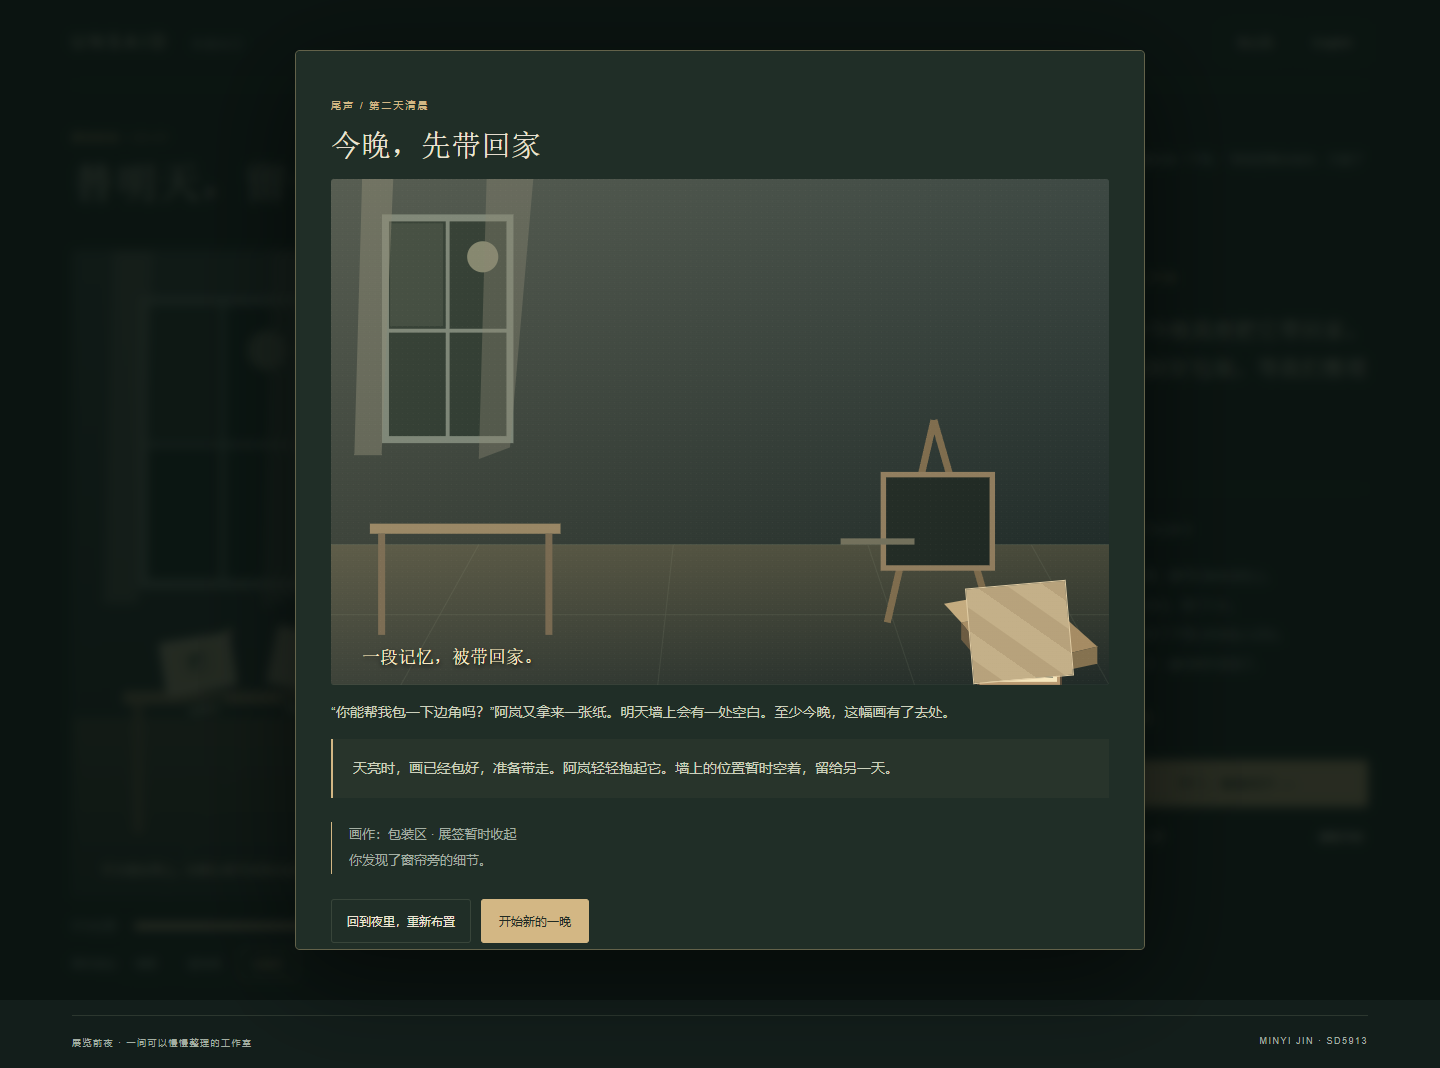
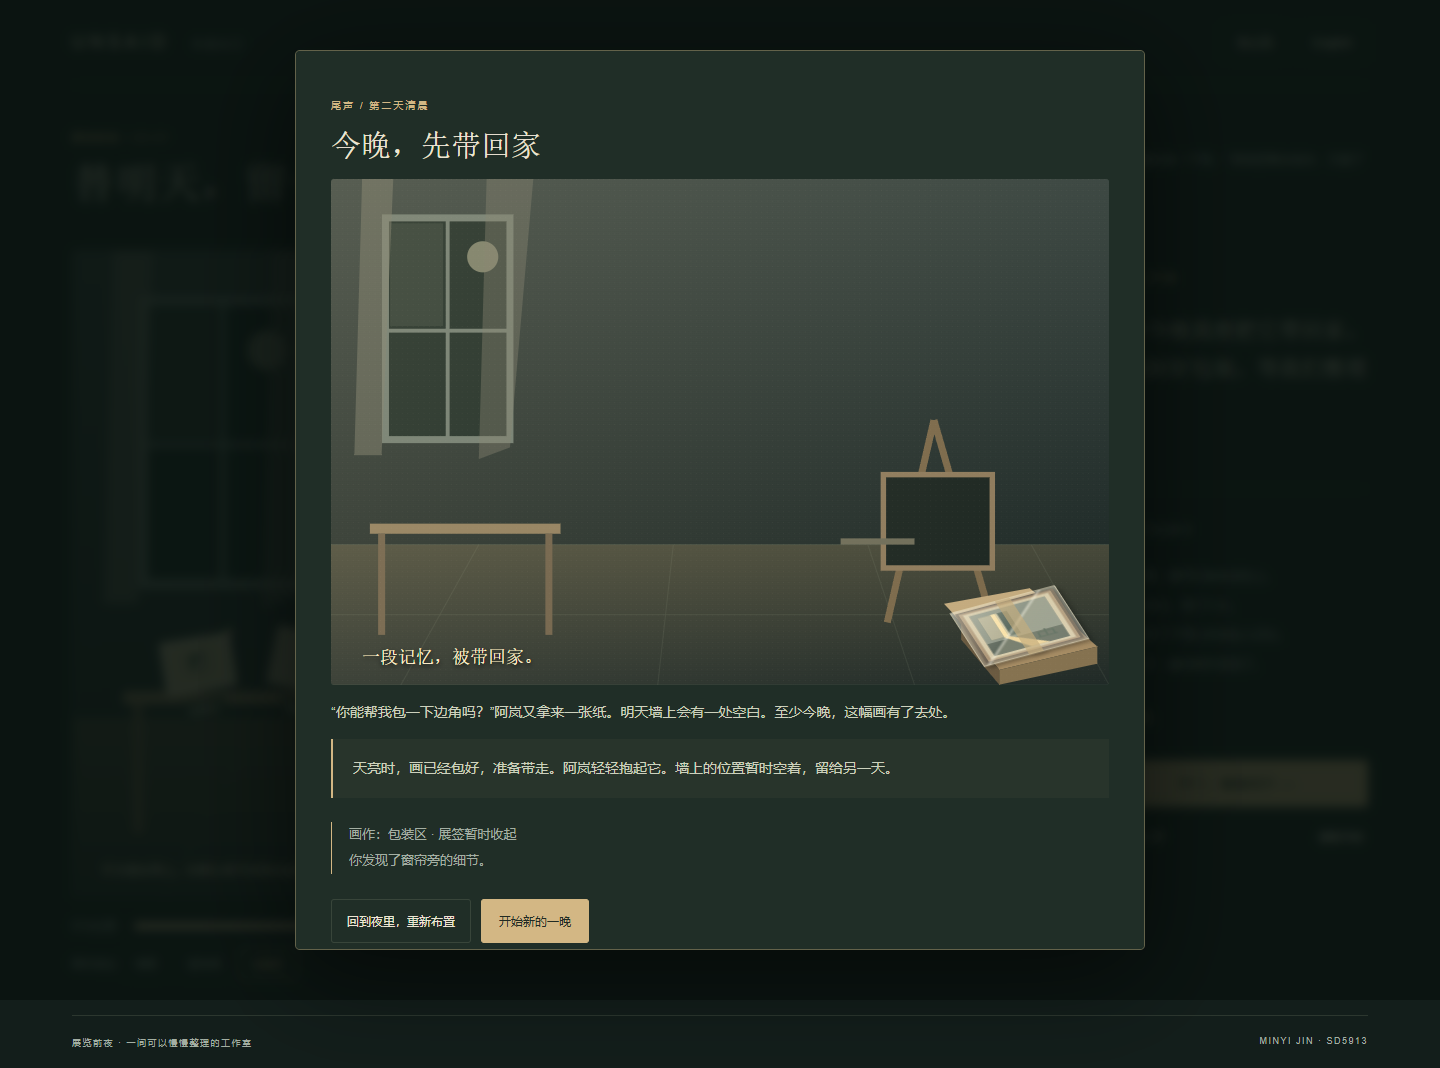
allow opening immediately and lay protected painting inside its box

Changed region(s): [[0.6562, 0.5253, 0.75, 0.6489]]

diff --git a/app.js b/app.js
@@ -19,7 +19,7 @@ function renderBase(){
  $('status').textContent=status;$('finish').textContent=T('Leave the room ready','就这样，准备开门');$('undo').textContent=T('↶ Undo','↶ 撤回一步');$('undo').disabled=!history.length;$('restart').textContent=T('Start over','重新开始');$('light-label').textContent=T('Light position','灯光位置');$('placement-label').textContent=T('Place painting','画作放在');$('light').value=state.light;$('light-value').textContent=Math.round(state.light)+'%';
  document.querySelectorAll('[data-place]').forEach(b=>{const p=b.dataset.place;b.setAttribute('aria-pressed',String(state.place===p));b.classList.toggle('active',state.place===p);if(b.classList.contains('zone'))b.querySelector('span').textContent=names[p][lang];else b.textContent=names[p][lang];});
  document.querySelectorAll('[data-object]').forEach(b=>{b.querySelector('.tag').textContent=names[b.dataset.object][lang];b.setAttribute('aria-label',T('Inspect ','查看')+names[b.dataset.object][lang]);b.classList.toggle('seen',state.seen.includes(b.dataset.object));});document.querySelector('.label').classList.toggle('removed',!state.label);
- const positions={wall:[38,18,20],rack:[72,58,12],pack:[83,81,11]};const [x,y,w]=positions[state.place];if(!drag||drag.kind!=='painting')Object.assign($('painting').style,{left:x+'%',top:y+'%',width:w+'%'});
+ const positions={wall:[38,18,20],rack:[72,58,12],pack:[82,77,13]};const [x,y,w]=positions[state.place];$('painting').dataset.location=state.place;if(!drag||drag.kind!=='painting')Object.assign($('painting').style,{left:x+'%',top:y+'%',width:w+'%'});
  $('painting').setAttribute('aria-label',T('Painting: drag to an area, or click to cycle positions.','画作：拖动至标记区域，或点击切换位置。'));$('lamp').style.left=state.light+'%';$('beam').style.left=state.light+'%';$('lamp').querySelector('span').textContent=T('Move light','移动灯光');$('lamp').setAttribute('aria-label',T('Move light; also available using the slider below.','移动灯光，也可使用下方滑块。'));$('hidden-light').style.opacity=aligned()?'1':'0';
  $('painting').classList.toggle('illuminated',aligned());
  $('beam').style.height=({wall:85,rack:120,pack:150}[state.place])+'%';
@@ -60,7 +60,7 @@ document.querySelectorAll('[data-place]').forEach(b=>b.onclick=()=>setPlace(b.da
 $('language').onclick=()=>{lang=1-lang;status='';render();};$('help').onclick=()=>$('help-dialog').showModal();$('close-help').onclick=$('help-ok').onclick=()=>$('help-dialog').close();$('undo').onclick=()=>{if(!history.length)return;const old=history.pop();state=old.state;voice=old.voice;status=T('Previous arrangement restored.','已恢复上一步的布置。');render();};
 $('restart').onclick=()=>$('reset-dialog').showModal();$('cancel-reset').onclick=()=>$('reset-dialog').close();$('confirm-reset').onclick=()=>{state=initial();history=[];voice='welcome';status=T('The evening begins again.','又回到了展览前夜。');$('reset-dialog').close();render();};
 let sliderStart=null;$('light').addEventListener('input',()=>{if(!sliderStart)sliderStart=snapshot();state.light=Number($('light').value);detectLight();render();});$('light').addEventListener('change',()=>{if(sliderStart){history.push(sliderStart);sliderStart=null;}render();});
-$('finish').onclick=()=>{if(state.seen.length<2){status=T('Alex glances at the table. “Could you look at a couple of those things with me first?”','阿岚看了看桌面。“先陪我看看其中两样东西，好吗？”');render();return;}renderEnding();$('ending').showModal();};$('continue').onclick=()=>$('ending').close();
+$('finish').onclick=()=>{if($('ending').open)return;renderEnding();$('ending').showModal();};$('continue').onclick=()=>$('ending').close();
 function beginDrag(e,kind){if(e.button!==0)return;drag={kind,id:e.pointerId,startX:e.clientX,startY:e.clientY,moved:false,before:snapshot(),rect:$('studio').getBoundingClientRect()};e.currentTarget.setPointerCapture(e.pointerId);if(kind==='painting')$('studio').classList.add('dragging-room');}
 function moveDrag(e){if(!drag||e.pointerId!==drag.id)return;if(Math.hypot(e.clientX-drag.startX,e.clientY-drag.startY)>5)drag.moved=true;if(!drag.moved)return;const x=(e.clientX-drag.rect.left)/drag.rect.width*100,y=(e.clientY-drag.rect.top)/drag.rect.height*100;if(drag.kind==='lamp'){state.light=Math.max(12,Math.min(88,x));detectLight();render();}else{$('painting').classList.add('dragging');Object.assign($('painting').style,{left:Math.max(0,Math.min(80,x-10))+'%',top:Math.max(0,Math.min(70,y-12))+'%',width:'20%'});}}
 function endDrag(e,cancel=false){if(!drag||e.pointerId!==drag.id)return;const d=drag;drag=null;$('studio').classList.remove('dragging-room');$('painting').classList.remove('dragging');if(cancel){state=d.before.state;voice=d.before.voice;status=T('Movement cancelled; the previous position was restored.','移动已取消，恢复原来的位置。');render();return;}if(d.kind==='lamp'){if(d.moved)history.push(d.before);render();return;}if(!d.moved){const places=['wall','rack','pack'];setPlace(places[(places.indexOf(state.place)+1)%3]);return;}const x=(e.clientX-d.rect.left)/d.rect.width*100,y=(e.clientY-d.rect.top)/d.rect.height*100;const target=x>=32&&x<=64&&y>=12&&y<=60?'wall':x>=69&&x<=86&&y>=53&&y<=80?'rack':x>=79&&x<=100&&y>=79&&y<=100?'pack':null;if(target){history.push(d.before);state.place=target;voice=target;status=T('Painting placed.','画已放好。');detectLight();}else status=T('Place it inside a marked area. The painting returned safely.','请放到标记区域内，画已回到原处。');render();}
@@ -69,7 +69,7 @@ $('painting').addEventListener('click',e=>{if(e.detail===0){const places=['wall'
 // Additional scene feedback and the final visitor view use the same live arrangement.
 function render(){
  renderBase();
- $('help-copy').textContent=T('Move the lamp over the painting on the wall, rack or packing table. A warm highlight appears when it catches the light.\n\nPick up the photograph and studies; turn them over to find their notes. Open the exhibition label to choose whether visitors will read the private statement.\n\nDrag the painting into a marked area, or use the position buttons. Use Tab and Enter for buttons, arrow keys for the light slider.\n\nAfter inspecting two objects, open the doors to see the exhibition you arranged. The final scene can be revisited or restarted.','把灯移到画的上方：墙面、暂存架和包装区都能照亮，光落到画上时会出现暖色细节。\n\n拿起照片和草稿，翻面查看批注。打开展签，决定观众是否会读到私人自述。\n\n拖动画作到标记区域，或使用位置按钮。按钮支持 Tab / Enter，灯光滑块支持方向键。\n\n查看两件物品后，开门看看你布置的展览。结局后可以返回修改，也可以从头再玩。');
+ $('help-copy').textContent=T('Move the lamp over the painting on the wall, rack or packing table. A warm highlight appears when it catches the light.\n\nPick up the photograph and studies; turn them over to find their notes. Open the exhibition label to choose whether visitors will read the private statement.\n\nDrag the painting into a marked area, or use the position buttons. In the packing area it lies under translucent protective paper; move it elsewhere to unpack it. Use Tab and Enter for buttons, arrow keys for the light slider.\n\nOpen the doors whenever you are ready to see your exhibition. You can return to rearrange it or begin again.','把灯移到画的上方：墙面、暂存架和包装区都能照亮，光落到画上时会出现暖色细节。\n\n拿起照片和草稿，翻面查看批注。打开展签，决定观众是否会读到私人自述。\n\n拖动画作到标记区域，或使用位置按钮。画放进包装区时会斜放在保护纸下，移回其他位置即可拆开。按钮支持 Tab / Enter，灯光滑块支持方向键。\n\n准备好就可以开门看看明天，没有查看数量要求。结局后可以回来重新布置，也可以从头再玩。');
  $('finish').textContent=T('Open the doors →','开门，看看明天 →');
  document.querySelector('.mini-label').textContent=T('ROOM\n2026','房间\n2026');
  document.querySelector('.label').setAttribute('title',state.label?T('Visitors will read Alex’s personal statement.','观众会读到阿岚的私人自述。'):T('The statement is set aside; visitors will see the artwork alone.','私人自述已收起，观众只看作品。'));
@@ -89,7 +89,7 @@ renderEnding=function(){
  const room=document.querySelector('.room').cloneNode(true);
  room.querySelectorAll('[id]').forEach(el=>{const old=el.id;el.id='final-'+old;room.querySelectorAll('[fill]').forEach(shape=>{if(shape.getAttribute('fill')===`url(#${old})`)shape.setAttribute('fill',`url(#final-${old})`);});});scene.append(room);
  const painting=$('painting').cloneNode(true);painting.removeAttribute('id');painting.className='final-painting';painting.disabled=true;painting.querySelectorAll('[id]').forEach(e=>e.removeAttribute('id'));scene.append(painting);
- if(state.place==='pack'){const wrap=document.createElement('div');wrap.className='final-wrap';scene.append(wrap);}
+ if(state.place==='pack'){const wrap=document.createElement('div');wrap.className='final-wrap';painting.append(wrap);}
  if(state.place==='wall'&&state.label){const label=document.createElement('div');label.className='final-label';label.textContent=T('ROOM / 2026\nA personal history','房间 / 2026\n一段私人记忆');scene.append(label);}
  const dawn=document.createElement('div');dawn.className='dawn';scene.append(dawn);
  const caption=document.createElement('p');caption.className='final-caption';caption.textContent={shared:T('The story is shared.','故事被讲给了别人。'),quiet:T('The work speaks first.','先让作品开口。'),rack:T('There is still time.','还有一些时间。'),pack:T('A memory goes home.','一段记忆，被带回家。')}[endingKey];scene.append(caption);

diff --git a/style.css b/style.css
@@ -4,3 +4,9 @@
 /* Light remains useful at every destination; epilogues show the arranged scene. */
 #painting.illuminated{filter:drop-shadow(0 0 16px #f8d58d66) brightness(1.15)}.mini-label{display:block;font:9px/1.5 Georgia,serif;white-space:pre-line;letter-spacing:1px}.label{background:#e6dfca;border:1px solid #b9ad8d;box-shadow:2px 3px 4px #0004}.label:before{content:"";position:absolute;left:15%;right:15%;bottom:16%;height:1px;background:#aa9b7d}
 #ending{width:850px;max-width:94vw}#ending h2{margin-top:10px}#final-scene{position:relative;isolation:isolate;aspect-ratio:1000/650;overflow:hidden;background:#314339;border-radius:3px}#final-scene .room{z-index:0}.final-painting{position:absolute;z-index:1;padding:0;border:0;background:none!important;opacity:1!important;filter:brightness(1.18);pointer-events:none}.final-painting svg{width:100%;display:block}.dawn{position:absolute;inset:0;background:linear-gradient(110deg,#ffe7a24d,transparent 65%);pointer-events:none;z-index:3}.final-label{position:absolute;left:64%;top:52%;padding:5px;background:#e8dfc6;color:#534d3b;font-size:8px;white-space:pre-line;z-index:2}.final-wrap{position:absolute;left:82%;top:80%;width:13%;height:19%;background:repeating-linear-gradient(40deg,#b6a17b,#b6a17b 18px,#c3af88 19px,#c3af88 40px);transform:rotate(-5deg);z-index:2;border:1px solid #e0cca4}.final-caption{position:absolute;bottom:3%;left:4%;margin:0!important;color:#fff0cb!important;z-index:4;font:18px/1.4 Georgia,"Songti SC",serif!important;text-shadow:0 2px 5px #000}#visitor-response{padding:16px 20px;border-left:2px solid var(--gold);background:#d3b7840b}#ending[data-ending=pack] .dawn{background:linear-gradient(120deg,#e6d1a233,transparent)}@media(max-width:760px){.mini-label{font-size:7px;letter-spacing:0}.final-caption{font-size:14px!important}.final-label{font-size:5px;padding:2px}#ending{padding:23px}}
+/* A packed painting lies in the box plane, beneath translucent protective paper. */
+#painting[data-location=pack],.final-painting[data-location=pack]{transform:rotate(-15deg) skewX(18deg) scaleY(.48);transform-origin:center;filter:drop-shadow(3px 7px 3px #0006)}
+#painting[data-location=pack]::after,.final-painting[data-location=pack]::after{content:"";position:absolute;inset:-4%;pointer-events:none;background:linear-gradient(125deg,#f2edd980,#e5e0ce33 45%,#f7f3e09c 47%,#e4ddc15c 49%,#eee8d74d);border:1px solid #f5edcdab;box-shadow:inset 0 0 8px #fff4}
+#painting[data-location=pack].illuminated{filter:drop-shadow(0 0 9px #f8d58d80) brightness(1.12)}
+#painting.dragging{transform:none!important}#painting.dragging::after{display:none}
+.final-painting .final-wrap{position:absolute;inset:-4%;width:auto;height:auto;transform:none;background:linear-gradient(90deg,transparent 43%,#c4ac7ca8 43%,#c4ac7ca8 57%,transparent 57%);border:0;z-index:3}

diff --git a/index.html b/index.html
@@ -1,5 +1,5 @@
 <!doctype html>
-<html lang="zh-CN"><head><meta charset="utf-8"><meta name="viewport" content="width=device-width,initial-scale=1"><title>Unsaid · 未说出口</title><link rel="stylesheet" href="style.css"></head><body>
+<html lang="zh-CN"><head><meta charset="utf-8"><meta name="viewport" content="width=device-width,initial-scale=1"><title>Unsaid · 未说出口</title><link rel="stylesheet" href="style.css?v=20261025b"></head><body>
 <header><a href="./">UNSAID <span>未说出口</span></a><div><button id="help">怎么玩</button><button id="language">English</button></div></header>
 <main><div class="heading"><div><p class="eyebrow" id="chapter"></p><h1 id="title"></h1></div><p id="intro"></p></div>
 <div class="layout"><section class="stage-column"><div id="studio" aria-label="Interactive studio">
@@ -24,4 +24,4 @@
 <dialog id="ending"><p class="eyebrow" id="ending-eyebrow"></p><h2 id="ending-title"></h2><div id="final-scene" aria-label="Final exhibition"></div><p id="ending-copy"></p><p id="visitor-response"></p><div id="ending-summary"></div><div class="dialog-actions"><button id="continue"></button><button id="play-again" class="primary"></button></div></dialog>
 <dialog id="help-dialog"><button class="close" id="close-help" aria-label="Close">×</button><h2 id="help-title"></h2><p id="help-copy"></p><button id="help-ok" class="primary"></button></dialog>
 <dialog id="reset-dialog"><h2 id="reset-title"></h2><p id="reset-copy"></p><div class="dialog-actions"><button id="cancel-reset"></button><button id="confirm-reset" class="primary"></button></div></dialog>
-<script src="app.js"></script></body></html>
+<script src="app.js?v=20261025b"></script></body></html>

diff --git a/PROCESS.md b/PROCESS.md
@@ -77,3 +77,13 @@ P2 liked the light interaction and the texture of the photograph/studies, but wa
 Implemented response: alignment now follows painting position in all three destinations, with a visible warm highlight. The label has a typeset face and explicit displayed/set-aside consequences. Opening the doors creates an epilogue with a morning scene based on the actual arrangement, four distinct closing outcomes, visitor/character text, and separate revise/restart actions. Preserve the photograph, studies and language switching in response to positive feedback. The inline SVG morning scene is code-authored with Codex; no new external assets or services were introduced.
 
 Developer verification: browser checks exercised illumination on the wall, rack and packing area, object inspection, undo, all four closing outcomes, wrapping visible in the packing ending, invalid-drop recovery, keyboard alternatives, reset confirmation and touch-enabled controls. Screenshots were captured. A peer retest of these new changes has not yet been reported. Before final submission, clarify whether the original trial began without an explanation of the controls, as the brief requests.
+
+### Follow-up correction — opening and packing / 后续修正：开门与包装
+
+The author supplied screenshots showing an apparently unresponsive “Open the doors” action and a painting standing upright over the packing area. The first problem was an unintended usability barrier: the click handler required two inspected objects and returned only a small status message. Remove that gate so every arrangement, including a fresh session, can reach its epilogue immediately. Exploration remains available without being a hidden prerequisite.
+
+For packing, replace the upright painting with a diagonal, flattened placement inside the box under translucent protective paper. Keep the painted detail visible through the paper so the revised lighting interaction remains useful. Moving the painting back to the wall/rack removes the packing treatment. The final take-home scene adds sealing tape over this same geometry. The artwork itself stays opaque; only the protective paper is translucent.
+
+作者截图显示“开门”被查看数量条件拦住，且包装区画作仍直立。移除查看两件物品的门槛，任何布置都可以进入结局。包装区改为画作斜放、压低透视并覆半透明保护纸；画本身保持不透明。移回墙面或暂存架即可拆开，带回家的结局在同一包装上增加封口胶带。
+
+Verification: browser checks now open an ending from a fresh session, return to editing, exercise all endings, check packed geometry and non-intercepting paper, and drag the packed painting back out. A packing screenshot and revised ending screenshot were captured and inspected. Versioned CSS/JS URLs help existing visitors receive the changed behavior.

diff --git a/README.md b/README.md
@@ -22,10 +22,11 @@ The first version used branching dialogue. Following the author's feedback that 
 - Pick up the photograph, study sheet and exhibition label. Turn each over to read the reverse.
 - Drag the painting to the wall, holding rack or packing area. The visible placement, selected control and character response change together. Position buttons below the scene offer the same action; clicking the painting cycles through positions.
 - Take the statement off the wall or put it back. Its location in the room changes.
-- After inspecting two objects, open the doors. An illustrated morning epilogue reflects your actual arrangement: sharing the statement, exhibiting the painting alone, leaving it on the rack, or taking it home. Each has distinct closing text. Revise the exhibition or begin a new evening using separate buttons.
+- Open the doors whenever you are ready; no minimum object count is required. An illustrated morning epilogue reflects your actual arrangement: sharing the statement, exhibiting the painting alone, leaving it on the rack, or taking it home. Each has distinct closing text. Revise the exhibition or begin a new evening using separate buttons.
+- In the packing area, the painting lies diagonally inside the box under translucent protective paper. Moving it back to the wall or rack removes the paper. Light can still reach the visible painted detail.
 - Undo restores the previous action. Start over asks for confirmation. English/Chinese switching preserves the arrangement.
 
-拖灯或使用滑块照亮画中细节；拿起三件物品并翻面；将画放到墙面、暂存架或包装区；决定展签是否公开。查看至少两件物品后，可以结束布展，看到与当前布置对应的收尾。可以回到房间继续调整，也可撤回或确认重启。语言切换保留状态。
+拖灯或使用滑块照亮画中细节；拿起三件物品并翻面；将画放到墙面、暂存架或包装区；决定展签是否公开。随时可以开门，不要求先查看多少物件。包装区里的画会斜放在半透明保护纸下，移回墙面或暂存架即可拆开。可以回到房间继续调整，也可撤回或确认重启。语言切换保留状态。
 
 ## Run locally / 本地运行
 
